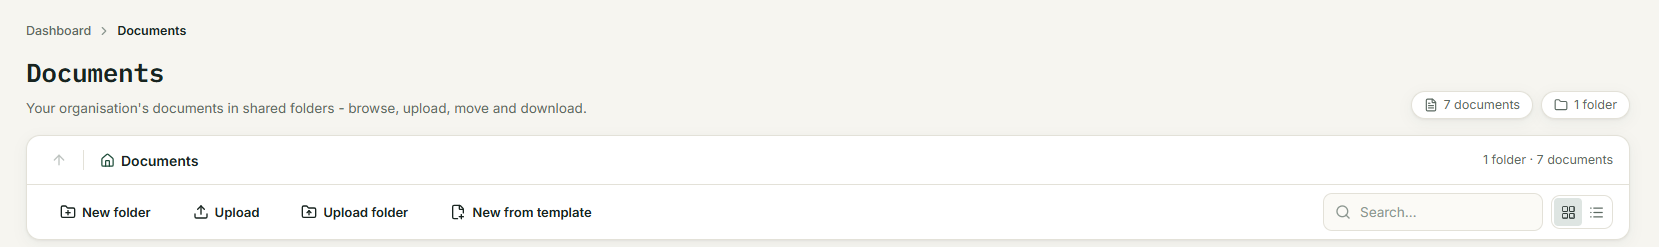
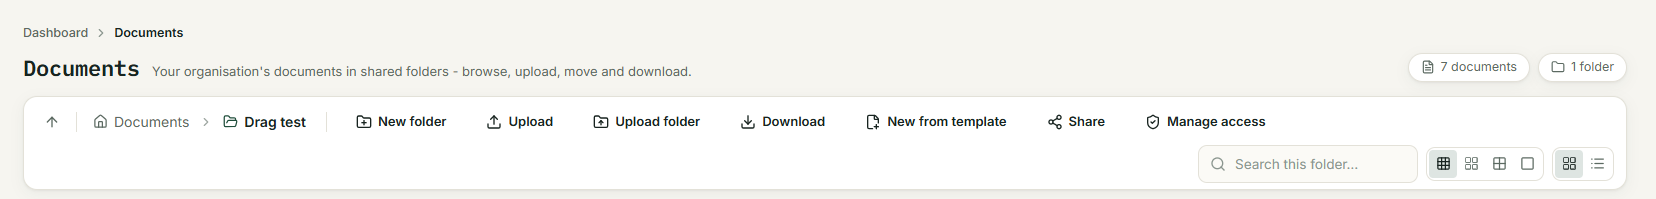
ui changes

diff --git a/frontend/components/documents/document-browser.tsx b/frontend/components/documents/document-browser.tsx
@@ -42,6 +42,7 @@ import {
   DocumentTile,
   FolderTile,
   type ItemAction,
+  ItemMenu,
 } from "@/components/documents/browser-items"
 import {
   countLabel,
@@ -861,16 +862,14 @@ function FolderView({
           </span>
         </div>
       )}
-      <div className="mb-4 rounded-lg border border-border bg-card shadow-[var(--ledger-shadow)]">
-        <div className="border-b border-border px-4 py-2">
-          <FolderPath
-            trail={trail}
-            onOpen={open}
-            summary={summary}
-            dropTarget={dnd.target}
+      <div className="mb-3 rounded-lg border border-border bg-card shadow-[var(--ledger-shadow)]">
+        {/* One row: where you are, what you can do here, then the counts, search and view. It wraps on narrow screens. */}
+        <div className="flex flex-wrap items-center gap-x-1.5 gap-y-1 px-3 py-1.5">
+          <FolderPath trail={trail} onOpen={open} dropTarget={dnd.target} />
+          <span
+            aria-hidden="true"
+            className="mx-1.5 hidden h-5 w-px bg-border sm:block"
           />
-        </div>
-        <div className="flex flex-wrap items-center gap-2 px-4 py-2">
           {can.createFolder && canEditHere && !missing && (
             <Button
               variant="ghost"
@@ -917,16 +916,6 @@ function FolderView({
               else toast.error("That folder has no files to upload.")
             }}
           />
-          {current && can.export && (
-            <Button
-              variant="ghost"
-              size="sm"
-              onClick={() => downloadFolder(current)}
-            >
-              <Download />
-              Download
-            </Button>
-          )}
           {!missing && (
             <Button
               variant="ghost"
@@ -937,47 +926,22 @@ function FolderView({
               New from template
             </Button>
           )}
-          {current && can.share && (
-            <Button
-              variant="ghost"
-              size="sm"
-              onClick={() =>
-                setDialog({
-                  kind: "share",
-                  target: {
-                    kind: "folder",
-                    id: current.folderId,
-                    name: current.name,
-                  },
-                  key: Date.now(),
-                })
-              }
-            >
-              <Share2 />
-              Share
-            </Button>
-          )}
-          {current && can.seeAccess && (
-            <Button
-              variant="ghost"
-              size="sm"
-              onClick={() =>
-                setDialog({
-                  kind: "access",
-                  target: {
-                    kind: "folder",
-                    id: current.folderId,
-                    name: current.name,
-                  },
-                  key: Date.now(),
-                })
-              }
-            >
-              <ShieldCheck />
-              Manage access
-            </Button>
+          {/* Folder-level actions (download as a ZIP, share, who has access) sit in a menu so the toolbar stays on one line. */}
+          {current && (
+            <ItemMenu
+              label={current.name}
+              buttonLabel="Folder actions"
+              actions={folderActions(current).filter((action) =>
+                ["Download", "Share", "Manage access"].includes(action.label)
+              )}
+            />
           )}
           <div className="ml-auto flex flex-wrap items-center gap-2">
+            {summary && (
+              <span className="hidden text-[12.5px] whitespace-nowrap text-muted-foreground 2xl:inline">
+                {summary}
+              </span>
+            )}
             <SearchInput
               value={query}
               onChange={(value) => {

diff --git a/frontend/components/documents/documents-hub.tsx b/frontend/components/documents/documents-hub.tsx
@@ -81,7 +81,7 @@ export function DocumentsHub({
   return (
     <>
       <AdminBreadcrumb
-        className="mb-3"
+        className="mb-2"
         segments={[
           { label: "Dashboard", href: "/" },
           // Every other tab hangs off Documents; that tab is the root itself.
@@ -94,12 +94,13 @@ export function DocumentsHub({
           { label: current.label },
         ]}
       />
-      <div className="mb-4 flex flex-wrap items-end justify-between gap-4">
-        <div>
-          <h1 className="mb-1.5 font-heading text-[26px] font-semibold tracking-[-0.01em]">
+      {/* Title and description share a line (they wrap on narrow screens); the counts sit on the same row. */}
+      <div className="mb-3 flex flex-wrap items-center justify-between gap-x-4 gap-y-2">
+        <div className="flex min-w-0 flex-wrap items-baseline gap-x-3 gap-y-0.5">
+          <h1 className="font-heading text-[22px] font-semibold tracking-[-0.01em]">
             {current.label}
           </h1>
-          <p className="text-[13.5px] leading-[1.6] text-muted-foreground">
+          <p className="text-[13px] leading-[1.5] text-muted-foreground">
             {current.description}
           </p>
         </div>
@@ -111,7 +112,7 @@ export function DocumentsHub({
       {visible.length > 1 && (
         <nav
           aria-label="Documents sections"
-          className="mb-6 border-b border-border"
+          className="mb-4 border-b border-border"
         >
           <ul className="-mb-px flex flex-wrap gap-1">
             {visible.map((tab) => {

diff --git a/frontend/components/documents/folder-path.tsx b/frontend/components/documents/folder-path.tsx
@@ -55,13 +55,16 @@ export function FolderPath({
         aria-label="Up one level"
         disabled={!current}
         onClick={() => onOpen(parent?.folderId ?? null)}
-        className="flex shrink-0 items-center justify-center text-muted-foreground transition-colors hover:bg-muted hover:text-foreground disabled:pointer-events-none disabled:opacity-40 size-8 rounded-btn"
+        className="flex size-8 shrink-0 items-center justify-center rounded-btn text-muted-foreground transition-colors hover:bg-muted hover:text-foreground disabled:pointer-events-none disabled:opacity-40"
       >
         <ArrowUp size={16} />
       </button>
       <span aria-hidden="true" className="h-5 w-px bg-border" />
 
-      <nav aria-label="Folder path" className="min-w-0 flex-1">
+      <nav
+        aria-label="Folder path"
+        className={cn("min-w-0", summary && "flex-1")}
+      >
         <ol className="flex flex-wrap items-center gap-0.5">
           <li>
             {current ? (
